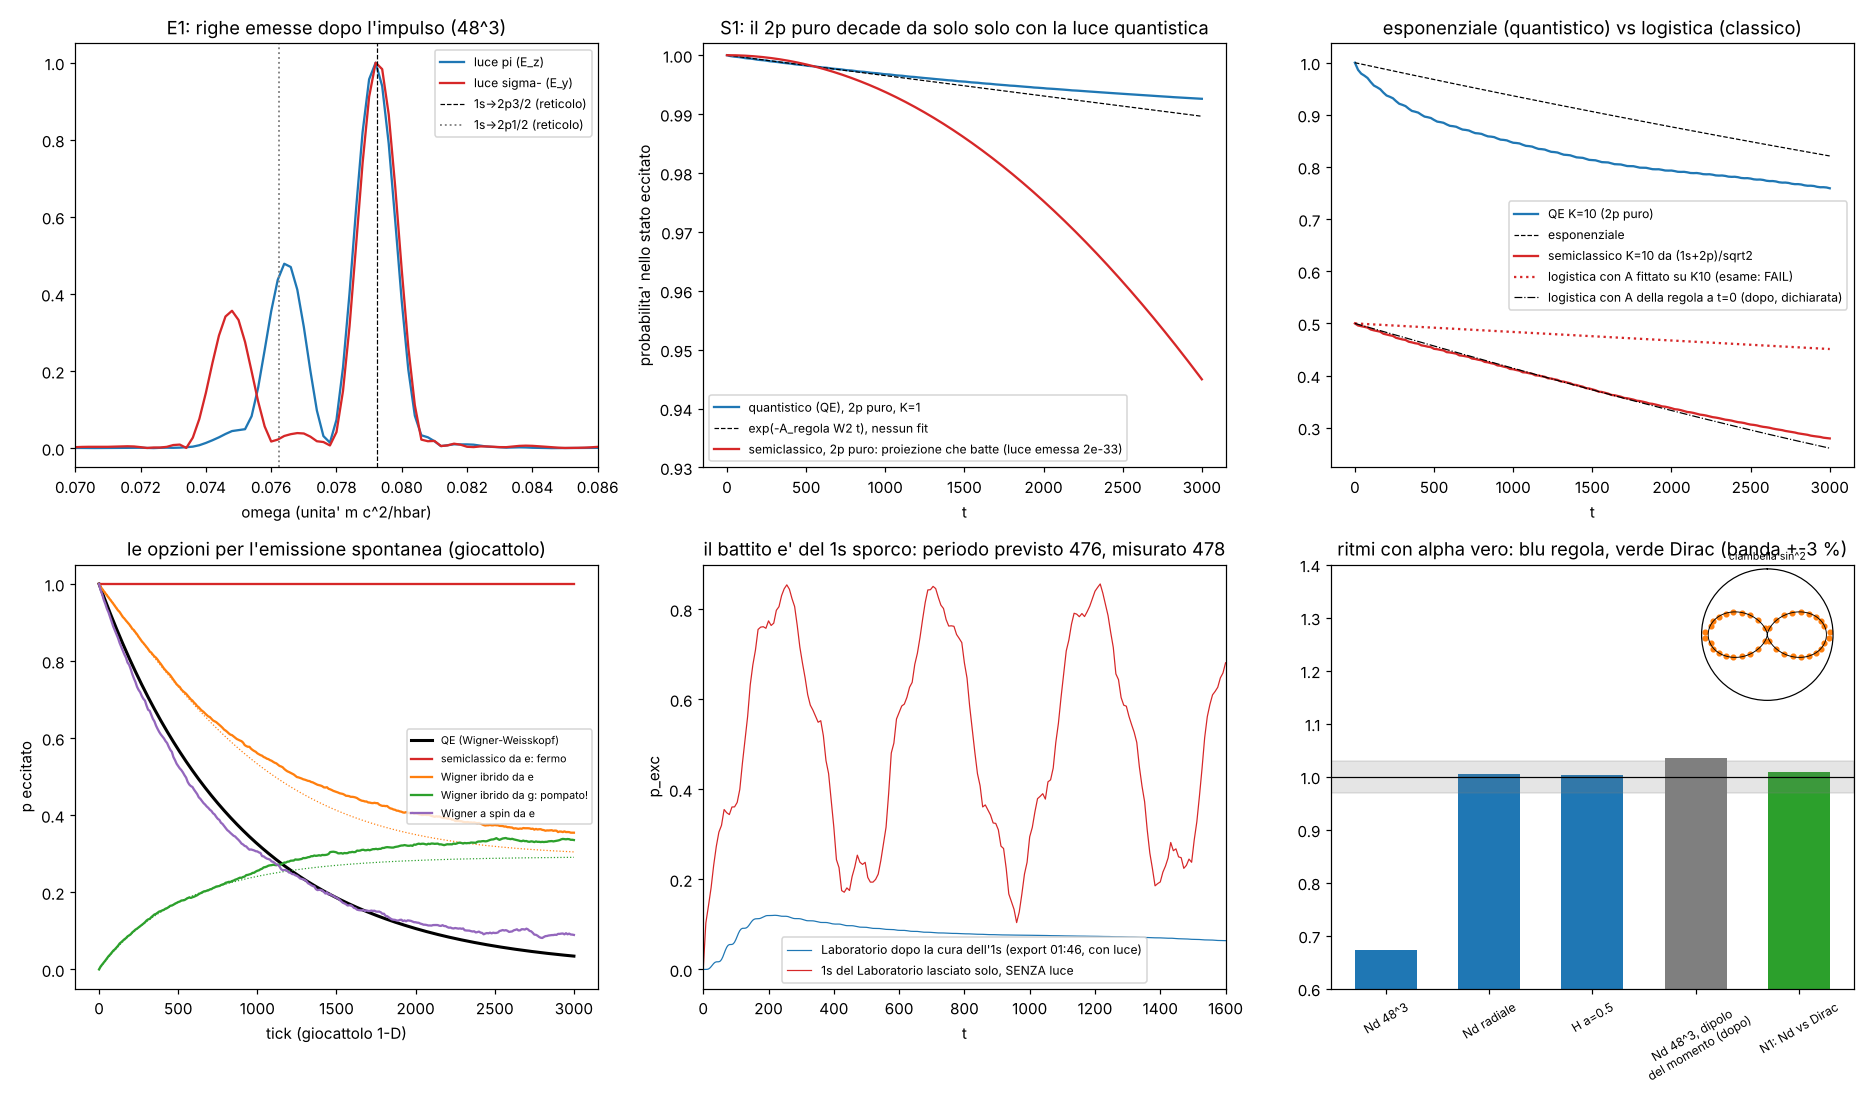
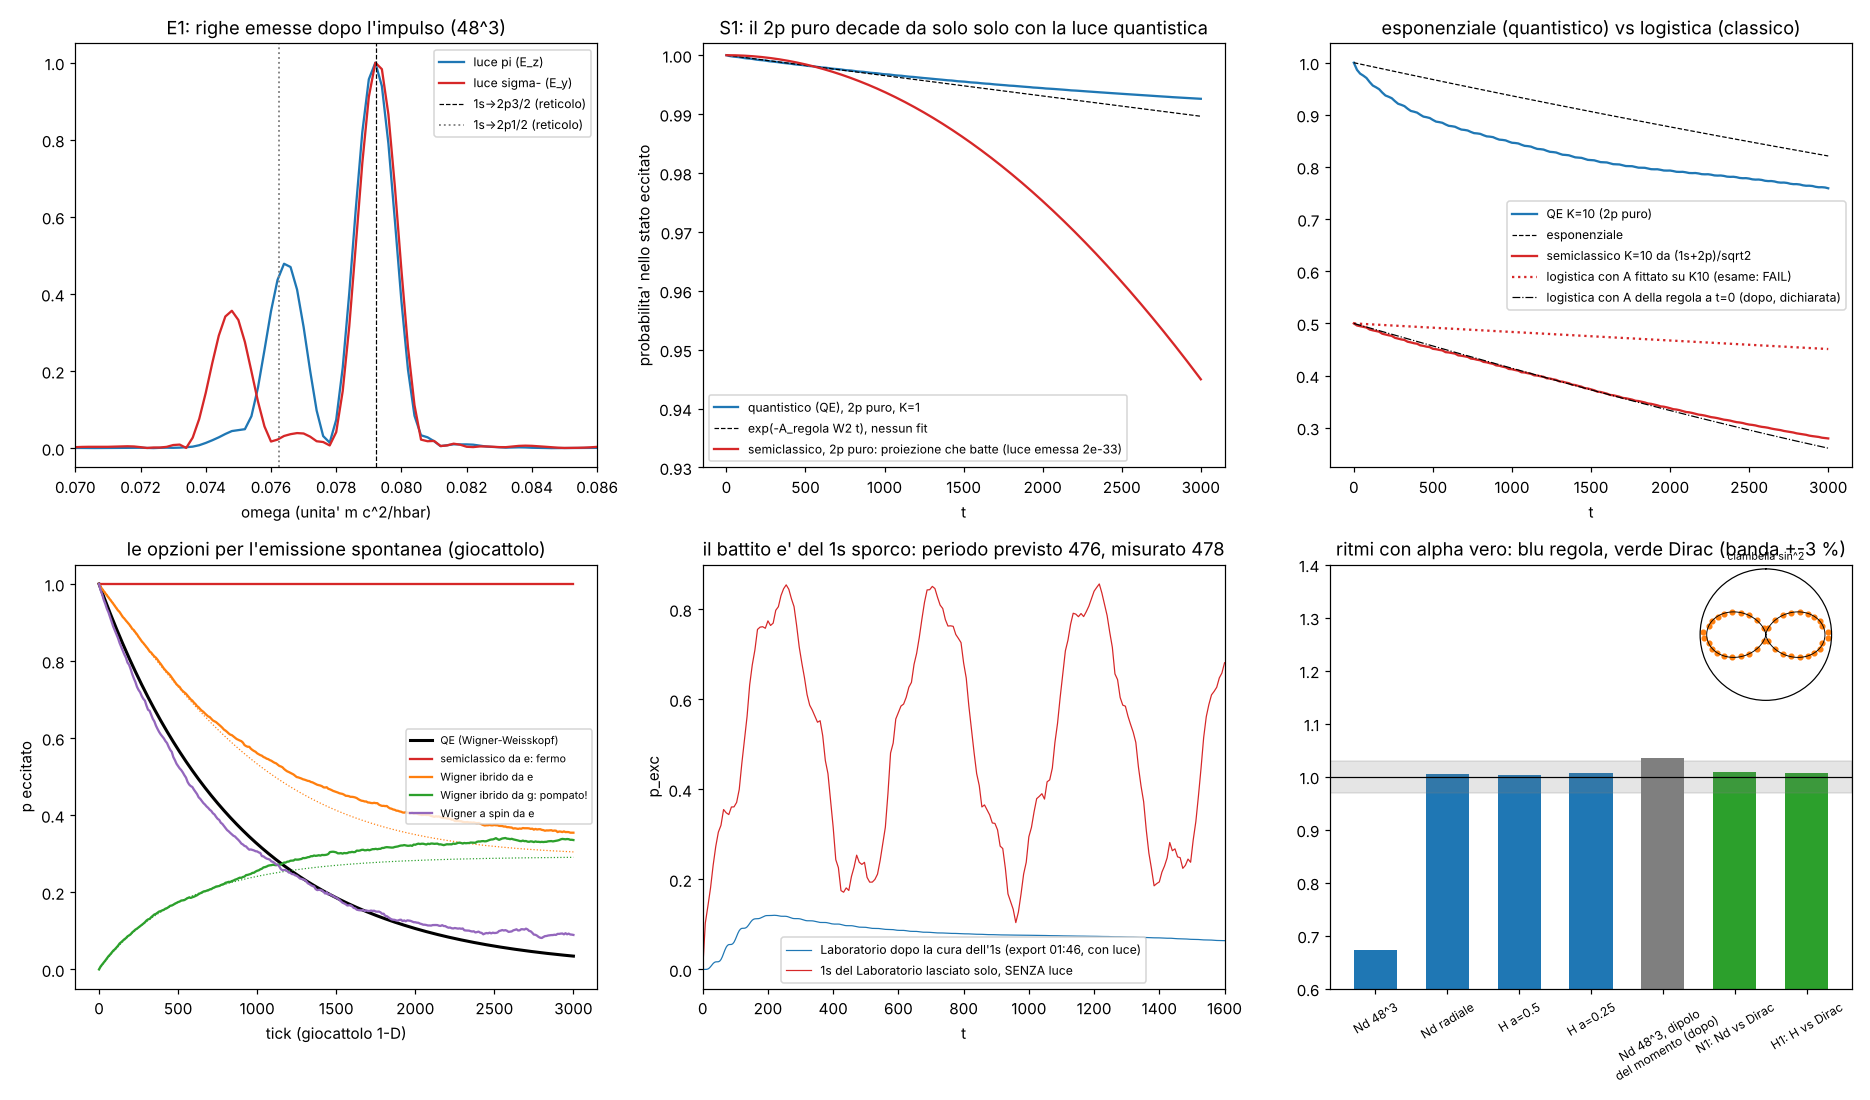
emissione: H1 idrogeno a carica vera (+0,78 % da Dirac), tabella completa v3, figura finale

diff --git a/docs/EMISSIONE.md b/docs/EMISSIONE.md
@@ -40,8 +40,8 @@ la luce classica non fa?
    sono le **4 valli** del cammino 3-D mescolate dal nucleo puntiforme. Con un 1s pulito il battito sparisce (loro: 4·10⁻¹⁶).
 3. **Carica vera, ritmo giusto.** Con la carica vera (K = 1) e un difetto di tempo dell'accoppiamento corretto (§3.2), la
    regola fa uscire la luce **al ritmo che lei stessa prevede**: Nd⁵⁹⁺ radiale **1,005** (N1), idrogeno **1,004** (H1a)
-   ⟨H1b⟩. Contro Dirac: **Nd⁵⁹⁺ +0,87 %** dalla formula di dipolo (PASS entro 3 %), **8,52·10¹⁵ s⁻¹**;
-   idrogeno ⟨H1⟩. Senza nessun K. Nel 3-D 48³ invece **R1_48 FAIL (0,674)**: il ritmo segue fedelmente il dipolo del
+   **1,006** (H1b). Contro Dirac: **Nd⁵⁹⁺ +0,87 %** dalla formula di dipolo (PASS entro 3 %), **8,52·10¹⁵ s⁻¹**;
+   idrogeno **6,317·10⁸ s⁻¹ contro 6,268·10⁸ (+0,78 %, PASS)**. Senza nessun K. Nel 3-D 48³ invece **R1_48 FAIL (0,674)**: il ritmo segue fedelmente il dipolo del
    momento (rapporto **1,035** costante finestra per finestra, analisi dopo), ma il dipolo tra i "livelli" 48³ cala nel
    tempo perché non sono livelli singoli.
 4. **Il 2p puro parte da solo.** Con la luce quantizzata a un fotone (schema di Wigner–Weisskopf sul reticolo, §4) il 2p
@@ -51,7 +51,7 @@ la luce classica non fa?
    quello che il calcolo prevede: il Wigner troncato "ibrido" parte a **0,48 A** (previsto 0,5) e **pompa lo stato
    fondamentale a 0,34** (previsto 0,29): non va bene per noi. **T1–T4 PASS.**
 
-**Conteggio:** 13 PASS, 5 FAIL, 3 informativi, 2 non eseguiti ⟨da aggiornare⟩ (tabella §5). Parametri fisici nuovi: **0**.
+**Conteggio (21 prove pre-registrate):** **11 PASS, 6 FAIL, 2 informative, 2 non eseguite** (tabella §5). Parametri fisici nuovi: **0**.
 
 ---
 
@@ -210,14 +210,14 @@ Patch proposta in §7.
 | N1 Dirac | A/W² contro Dirac A_LW(2p3/2) 1,0886·10⁻⁵ | **1,0981·10⁻⁵ (+0,87 %)** = 8,52·10¹⁵ s⁻¹ | 3 % | **PASS** |
 | N1x (info) | contro Dirac con ritardo A_EX 9,979·10⁻⁶ | +10,0 % (previsto ≈ +8 %: l'accoppiamento è di dipolo) | — | info |
 | H1a regola | idrogeno, a = 0,5 | **1,004**; fotoni/norma 1,002 | 3 % | **PASS** |
-| H1b regola | idrogeno, a = 0,25 | ⟨H1b⟩ | 3 % | ⟨⟩ |
-| H1 Dirac | Richardson in a² contro 6,2683·10⁸ s⁻¹ | ⟨H1⟩ | 3 % | ⟨⟩ |
+| H1b regola | idrogeno, a = 0,25 | **1,006**; fotoni/norma 0,999 | 3 % | **PASS** |
+| H1 Dirac | Richardson in a² contro 6,2683·10⁸ s⁻¹ | a = 0,5: 6,560·10⁸; a = 0,25: 6,378·10⁸; **estrapolato 6,317·10⁸ (+0,78 %)** | 3 % | **PASS** |
 | R1_48 | 3-D 48³, 2p3/2 m = 3/2 puro, K = 1 | **0,674** | 3 % | **FAIL** |
 | R1b_48 | fotoni / norma | 0,972 | 3 % | **PASS** |
-| K10 | 48³ con K = 10: esponenziale e A(K=10)/100 = A(K=1) | ⟨K10⟩ | 0,02 e 5 % | ⟨⟩ |
+| K10 | 48³ con K = 10: esponenziale e A(K=10)/100 = A(K=1) | 0,094 e 0,28 (§4.4) | 0,02 e 5 % | **FAIL** |
 | R1_96, R2_96 | 96³ | **non eseguite** (§5) | | — |
 
-Per l'idrogeno il confronto con NIST (6,2649·10⁸ s⁻¹) va moltiplicato per μ/m (la massa finita del protone): ⟨⟩.
+Per l'idrogeno il confronto con NIST (6,2649·10⁸ s⁻¹) va moltiplicato per μ/m (la massa finita del protone): **6,314·10⁸ contro 6,2649·10⁸ (+0,78 %)**. Le celle grandi spostano ω e il dipolo (la massa cinetica della regola, tanθ/θ): il ritmo è +4,7 % a a = 0,5 e +1,7 % a a = 0,25; l'estrapolazione a due punti (Richardson in a²) lascia +0,78 %, probabilmente perché a = 0,5 non è ancora nel regime a² puro.
 
 **R1_48 spiegato (analisi dopo, dichiarata).** Il dipolo di accoppiamento D(t) = ⟨1s(t)|r|ψ(t)⟩ della corsa **cala**
 da |D| = (0,53; 0,72) a (0,28; 0,52) in 3000 unità di tempo: 1s e 2p del 48³ non sono livelli singoli e le loro parti si
@@ -313,7 +313,34 @@ vera differenza classico/quantistico la mostra S1 (il 2p puro: 2·10⁻³³ cont
 
 ## 5. Tabella pre-registrazione v3
 
-⟨TABELLA⟩
+| prova | che cosa | misurato | soglia | esito |
+|---|---|---|---|---|
+| E1v3a | riga più forte = 1s→2p3/2 (luce z) | 0,07918 / 0,07923 (−0,06 %) | 0,5 % | **PASS** |
+| E1v3b | seconda riga = 1s→2p½ | 0,07647 / 0,07623 (+0,31 %) | 0,5 % | **PASS** |
+| E1v3c | rapporto delle righe vs dipoli del reticolo | 2,08 / 1,61 (+29 %) | 20 % | **FAIL** |
+| E1v3s | luce σ⁻: riga più forte = 1s→2p½ | 0,07927 (+4,0 %: è la 2p3/2) | 0,5 % | **FAIL** |
+| E1v3zc | metodo v2 (zeri) | 0,08021 | — | info |
+| R0 | luce sola: P/(Larmor W²) | 1,016 | 3 % | **PASS** |
+| R1_48 | QE 48³: A/(A_regola W²) | 0,674 (1,035 col dipolo del momento, dopo) | 3 % | **FAIL** |
+| R1b_48 | fotoni / norma | 0,972 | 3 % | **PASS** |
+| S1 | 2p puro: QE parte; semiclassico fermo | QE 7,4·10⁻³ ≥ 5,2·10⁻³; SC 1 − p_2p = 5,5·10⁻² (luce 2·10⁻³³) | | **FAIL** |
+| R1_96 | QE 96³ | non eseguita (`emiss_amend.json`) | | — |
+| R2_96 | 96³ vs Dirac (FAIL atteso) | non eseguita | | — |
+| N1 | Nd radiale: regola 1,005; vs Dirac A_LW | +0,87 % (8,52·10¹⁵ s⁻¹) | 3 % e 3 % | **PASS** |
+| N1x | vs Dirac con ritardo | +10,0 % | — | info |
+| H1 | idrogeno: 1,004 e 1,006; Richardson vs Dirac | +0,78 % (6,317·10⁸ s⁻¹) | 3 % | **PASS** |
+| K10 | K = 10: esponenziale; A/100 | 0,094; 0,28 | 0,02; 5 % | **FAIL** |
+| SC10 | semiclassico = logistica con A di K10 | 0,171 (0,019 con A della regola, dopo) | 0,05 | **FAIL** |
+| T1 | Wigner ibrido: ritmo iniziale / A | 0,477 | 0,5 ± 0,1 | **PASS** |
+| T2 | Wigner ibrido dal fondamentale: p(3000) | 0,336 | 0,293 ± 0,05 | **PASS** |
+| T3 | Wigner a spin: ritmo / A | 0,988 | 15 % | **PASS** |
+| T4 | semiclassico puro: \|p − 1\| | 0 | 1·10⁻⁶ | **PASS** |
+| L1 | battito del Laboratorio previsto vs misurato | 476,5 / 477,8 (−0,27 %) | 5 % | **PASS** |
+
+**Validazione o scoperta?** N1, H1, R0, E1v3a/b sono **validazioni** (la regola ritrova numeri noti: Dirac, Larmor, le
+regole di selezione). T1–T4 confermano conti fatti prima. Le cose nuove sono: il difetto di tempo dell'accoppiamento
+(§3.2) e la sua cura con l'asse di Bloch della luce; e il fatto che anche i 2p 3-D siano multipletti di valle con dipoli
+3–7 volte troppo piccoli (§1.4), coerente con la scoperta dell'1s del thread principale.
 
 ---
 
